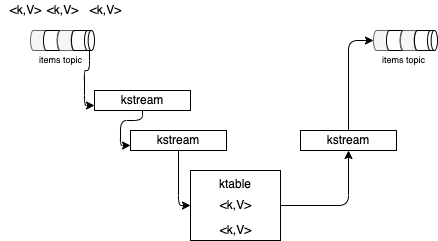
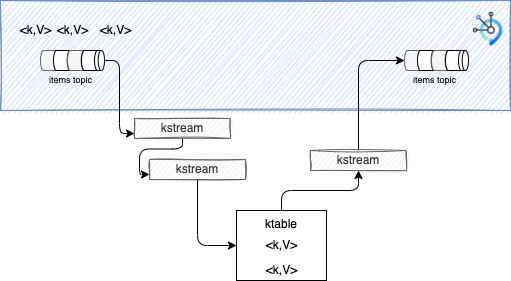
tune exercise 2 with new diagram and  explanations

Changed region(s): [[0.0, 0.0, 1.0, 1.0]]

diff --git a/lab2/refarch-eda-store-inventory/src/test/java/ut/TestSecondTopology.java b/lab2/refarch-eda-store-inventory/src/test/java/ut/TestSecondTopology.java
@@ -19,6 +19,7 @@ import org.apache.kafka.streams.kstream.Consumed;
 import org.apache.kafka.streams.kstream.KStream;
 import org.junit.jupiter.api.AfterAll;
 import org.junit.jupiter.api.BeforeAll;
+import org.junit.jupiter.api.Order;
 import org.junit.jupiter.api.Test;
 
 import ibm.gse.eda.stores.domain.ItemTransaction;
@@ -27,6 +28,7 @@ import ibm.gse.eda.stores.infra.events.StoreSerdes;
 /**
  * Filter out items with no store name or no sku
  */
+
 public class TestSecondTopology {
     
     private  static TopologyTestDriver testDriver;
@@ -38,7 +40,7 @@ public class TestSecondTopology {
     public static Topology buildTopologyFlow(){
         final StreamsBuilder builder = new StreamsBuilder();
          // 1- get the input stream
-        
+         
         // 2 filter
 
         // Generate to output topic
@@ -79,11 +81,13 @@ public class TestSecondTopology {
      * If we do not send message to the input topic there is no message to the output topic.
      */
     @Test
+    @Order(1)
     public void isEmpty() {
         assertThat(outputTopic.isEmpty(), is(true));
     }
 
     @Test
+    @Order(2)
     public void sendValidRecord(){
         ItemTransaction item = new ItemTransaction("Store-1","Item-1",ItemTransaction.RESTOCK,5,33.2);
         inputTopic.pipeInput(item.storeName, item);
@@ -94,6 +98,7 @@ public class TestSecondTopology {
     }
 
     @Test
+    @Order(3)
     public void nullStoreNameRecordShouldGetNoOutputMessage() {
         ItemTransaction item = new ItemTransaction(null,"Item-1",ItemTransaction.RESTOCK,5,33.2);
         inputTopic.pipeInput(item.storeName, item);
@@ -101,6 +106,7 @@ public class TestSecondTopology {
     }
 
     @Test
+    @Order(4)
     public void emptyStoreNameRecordShouldGetNoOutputMessage() {
         ItemTransaction item = new ItemTransaction("","Item-1",ItemTransaction.RESTOCK,5,33.2);
         inputTopic.pipeInput(item.storeName, item);
@@ -108,6 +114,7 @@ public class TestSecondTopology {
     }
 
     @Test
+    @Order(5)
     public void nullSkuRecordShouldGetNoOutputMessage(){
         //assertThat(outputTopic.getQueueSize(), equalTo(0L) );
 
@@ -117,6 +124,7 @@ public class TestSecondTopology {
     }
 
     @Test
+    @Order(6)
     public void emptySkuRecordShouldGetNoOutputMessage(){
         ItemTransaction item = new ItemTransaction("Store-1","",ItemTransaction.RESTOCK,5,33.2);
         inputTopic.pipeInput(item.storeName, item);

diff --git a/lab2/refarch-eda-store-inventory/src/main/java/ibm/gse/eda/stores/domain/ItemTransaction.java b/lab2/refarch-eda-store-inventory/src/main/java/ibm/gse/eda/stores/domain/ItemTransaction.java
@@ -1,6 +1,7 @@
 package ibm.gse.eda.stores.domain;
 
 import java.time.LocalDateTime;
+import java.util.Date;
 
 import io.quarkus.runtime.annotations.RegisterForReflection;
 
@@ -20,6 +21,7 @@ public class ItemTransaction   {
         }
 
         public ItemTransaction(String store, String sku, String type, int quantity, double price) {
+                this.id = new Date().getTime();
                 this.storeName = store;
                 this.sku = sku;
                 this.type = type;

diff --git a/docs/lab2/index.md b/docs/lab2/index.md
@@ -2,6 +2,15 @@
 
 In this Lab, you will learn simple Kafka Streams exercises using Java APIs, and then finish by implementing on of the proof of concept component to compute the store inventory for each items sold.
 
+## Pre-requisites
+
+This lab is about some Java implementation, if you have no experience in Java you may skip it. 
+
+* Be sure your IDE, like VScode has java extension. For VSCode you can use [Quarkus extension](https://marketplace.visualstudio.com/items?itemName=redhat.vscode-quarkus) and [Red Hat java extension](https://marketplace.visualstudio.com/items?itemName=redhat.java)
+* maven is used to package and run some test. The project has `./mvnw` command that brings maven in the project.
+
+## Context
+
 The figure illustrates what you need to build, the green rectangle, which is a [Java Quarkus](https://quarkus.io) application using Kafka Streams API consuming `items` events and computing `store inventory` events by aggregating at the store level.
 
 ![](../images/store-inv.png)
@@ -98,7 +107,7 @@ See comments in test class for more information. May be you can play with the da
 
 **Problem:** Given item sold transactions, keep transactions with store and sku information populated.
 
-Try to do a topology taking the business class [ItemTransaction](https://github.ibm.com/boyerje/eda-tech-academy/blob/main/lab2/refarch-eda-store-inventory/src/main/java/ibm/gse/eda/stores/domain/ItemTransaction.java) as content from the input topic:
+Try to do a topology taking the [ItemTransaction class](https://github.ibm.com/boyerje/eda-tech-academy/blob/main/lab2/refarch-eda-store-inventory/src/main/java/ibm/gse/eda/stores/domain/ItemTransaction.java) as the code defining the content from the input topic. The following code does not need to be copied/paste. It is here to explain you the structure of the data. The class is in the classpath, so tests run in maven or in the IDE will work.
 
 ```java
 public class ItemTransaction   {
@@ -113,7 +122,7 @@ public class ItemTransaction   {
         public String timestamp;
 ```
 
-and then use filter to select items with sku and storeName.
+So the Stream Topology needs to use the `filter()` function to select items with valid sku and storeName.
 
 You should use the [TestSecondTopology test class](https://github.ibm.com/boyerje/eda-tech-academy/blob/main/lab2/refarch-eda-store-inventory/src/test/java/ut/TestSecondTopology.java), and implement the Kafka Streams topology in the `buildTopologyFlow()` method:
 
@@ -130,8 +139,10 @@ You should use the [TestSecondTopology test class](https://github.ibm.com/boyerj
     }
 ```
 
-In the first exercice, we used String Deserializer. This time we need Java Bean serializer/deserializer. This is a classical task in any Kafka Streams project to have to define such serdes.
+In the first exercice, we used String Deserializer. This time we need Java Bean serializer/deserializer. This is a classical task in any Kafka Streams projects to have to define such serdes.
 The Serialization and Deserialization are defined in the [StoreSerdes.class](https://github.ibm.com/boyerje/eda-tech-academy/blob/main/lab2/refarch-eda-store-inventory/src/main/java/ibm/gse/eda/stores/infra/events/StoreSerdes.java) which uses a [JSON generic class](https://github.ibm.com/boyerje/eda-tech-academy/blob/main/lab2/refarch-eda-store-inventory/src/main/java/ibm/gse/eda/stores/infra/events/JSONSerde.java) based on Jackson parser. You should be able to reuse this class in all your project.
+
+Do not copy / past the following code. This is just for information so you can see the relationship between Serdes and the Java bean they are supposed to deserialize.
 
 ```java title="JSONSerdes"
 import org.apache.kafka.common.serialization.Deserializer;
@@ -159,7 +170,7 @@ public class StoreSerdes {
 }
 ```
 
-Then the test topic declarations are using the serdes:
+Using the StoreSerdes, the test topic declarations in the TestCase class, are using the serdes like:
 
 
 ```java title="setup method"
@@ -172,6 +183,8 @@ outputTopic = testDriver.createOutputTopic(outTopicName,
         StoreSerdes.ItemTransactionSerde().deserializer());
 ```
 
+Now some guidances of what the Stream topology should look like:
+
 * Think to build a Kstream from the input stream
 * The record should have key and value
 * use filter and predicate to test if value.storeName has no value or value.sku is empty or null then drop the message
@@ -180,20 +193,64 @@ outputTopic = testDriver.createOutputTopic(outTopicName,
 
 Use Test Driven Development to build tests before the topology, but here tests are already defined for you.
 
+```java title="Happy Path Test"
+    @Test
+    public void sendValidRecord(){
+        ItemTransaction item = new ItemTransaction("Store-1","Item-1",ItemTransaction.RESTOCK,5,33.2);
+        inputTopic.pipeInput(item.storeName, item);
+        assertThat(outputTopic.getQueueSize(), equalTo(1L) );
+        ItemTransaction filteredItem = outputTopic.readValue();
+        assertThat(filteredItem.storeName, equalTo("Store-1"));
+        assertThat(filteredItem.sku, equalTo("Item-1"));
+    }
+```
+
+* Here is a typical trace: the id of the transaction is a timestamp as long, so those values will change.
+
+```java title="Expected execution trace"
+Topologies:
+   Sub-topology: 0
+    Source: KSTREAM-SOURCE-0000000000 (topics: [my-input-topic])
+      --> KSTREAM-PEEK-0000000001
+    Processor: KSTREAM-PEEK-0000000001 (stores: [])
+      --> KSTREAM-FILTER-0000000002
+      <-- KSTREAM-SOURCE-0000000000
+    Processor: KSTREAM-FILTER-0000000002 (stores: [])
+      --> KSTREAM-PEEK-0000000003
+      <-- KSTREAM-PEEK-0000000001
+    Processor: KSTREAM-PEEK-0000000003 (stores: [])
+      --> KSTREAM-SINK-0000000004
+      <-- KSTREAM-FILTER-0000000002
+    Sink: KSTREAM-SINK-0000000004 (topic: my-output-topic)
+      <-- KSTREAM-PEEK-0000000003
+
+....
+PRE-FILTER: key=Store-1, value= {id: 1653431482009 Store: Store-1 Item: null Type: RESTOCK Quantity: 5}
+PRE-FILTER: key=Store-1, value= {id: 1653431482107 Store: Store-1 Item: Item-1 Type: RESTOCK Quantity: 5}
+POST-FILTER: key=Store-1, value= {id: 1653431482107 Store: Store-1 Item: Item-1 Type: RESTOCK Quantity: 5}
+PRE-FILTER: key=, value= {id: 1653431482114 Store:  Item: Item-1 Type: RESTOCK Quantity: 5}
+PRE-FILTER: key=Store-1, value= {id: 1653431482116 Store: Store-1 Item:  Type: RESTOCK Quantity: 5}
+PRE-FILTER: key=null, value= {id: 1653431482118 Store: null Item: Item-1 Type: RESTOCK Quantity: 5}
+```
+
 ???- "Solution"
     The topology looks like
     ```java
     KStream<String,ItemTransaction> items = builder.stream(inTopicName, 
-                Consumed.with(Serdes.String(),  StoreSerdes.ItemTransactionSerde()));  
-       items.filter((k,v) -> 
-           (v.storeName != null && ! v.storeName.isEmpty() && v.sku != null && ! v.sku.isEmpty()) 
-       )
-    .to(outTopicName);
+         Consumed.with(Serdes.String(),  StoreSerdes.ItemTransactionSerde()));  
+        items.peek((key, value) -> System.out.println("PRE-FILTER: key=" + key + ", value= {" + value + "}"))
+            .filter((k,v) -> 
+                (v.storeName != null && ! v.storeName.isEmpty() && v.sku != null && ! v.sku.isEmpty())) 
+            .peek((key, value) -> System.out.println("POST-FILTER: key=" + key + ", value= {" + value + "}"))
+            .to(outTopicName);
     ```
 
 ### Exercise 3: Dead letter topic
 
-**Problem:** from the previous example, we would like to route the messages in error to a dead letter topic, for future processing. May be a human intervention?
+**Problem:** from the previous example, we would like to route the messages with errors to a dead letter topic, for future processing. May be a human intervention? The dead letter topic is a classical integration pattern, and when dealing with Kafka and streaming it looks like:
+
+![](./images/dlq.png)
+
 
 Transform the previous topology to support branches and routing the records in error to a dead letter topic. 
 
@@ -204,8 +261,8 @@ Some guidances:
 * Define a dead letter topic
 * Create a [StreamsBuilder]: Builder for Kafka Streams topology
 * Create a KStream with key as string and value as ItemTransaction
-* Use the concept of [branches]() by splitting the input stream
-* Use lambda function for testing condition on sku and storeman attributes
+* Use the concept of [branches](./kstream/#kstream-api) by splitting the input stream
+* Use lambda function for testing condition on `sku` and `storeName` attributes
 * Output the branches to topics
 
 ???- "Solution"

diff --git a/docs/lab2/kstream.md b/docs/lab2/kstream.md
@@ -61,10 +61,12 @@ Then Kstream offers a lot of functions to process the records. Below is a quick 
 | **to** | transform the stream to a topic | aStream.to(outTopicName) |
 | **filter** | Create a new KStream with records which satisfy the given predicate. |  .filter((key, value) -> ("BLUE".equalsIgnoreCase(value))) |
 | **split** | Split this stream into different branches. | aStream.split().branch((key, value) -> value.userId == null, Branched.as("no-userid")).defaultBranch(Branched.as("non-null"));|
-| **groupBy** | Group the records of this KStream on a new key  | |
-| **groupByKey** | | |
+| **groupBy** | Group the records of this KStream on current key  | |
+| **groupByKey** | Group the records of this KStream on a new key | |
 | **[KGroupedStream](https://kafka.apache.org/30/javadoc/org/apache/kafka/streams/kstream/KGroupedStream.html)** | Intermediate representation of a KStream in order to apply an aggregation operation | Ouput of groupByKey |
-| [aggregate](https://kafka.apache.org/30/javadoc/org/apache/kafka/streams/kstream/KGroupedStream.html#aggregate) | Aggregate the values of records in this stream by the grouped key | |
+| [aggregate](https://kafka.apache.org/30/javadoc/org/apache/kafka/streams/kstream/KGroupedStream.html#aggregate) | Aggregate the values of records in this stream by the grouped key | .aggregate(() ->  new StoreInventory(), (store , newItem, existingStoreInventory) -> existingStoreInventory.updateStockQuantity(store,newItem), materializeAsStoreInventoryKafkaStore());        |
+| [split](https://kafka.apache.org/30/javadoc/org/apache/kafka/streams/kstream/KStream.html#split()) | Split a stream into branches| items.split(Named.as("B-")) |
+| [BranchedKStream](https://kafka.apache.org/30/javadoc/org/apache/kafka/streams/kstream/BranchedKStream.html) | Branches the records in the original stream based on the predicates supplied for the branch definitions. |  .branch((k,v) -> (v.storeName == null), Branched.as("wrong-tx")).defaultBranch(Branched.as("good-tx"));   branches.get("B-good-tx").to(outTopicName); branches.get("B-wrong-tx").to(deadLetterTopicName); |
 
 ### KTable
 
